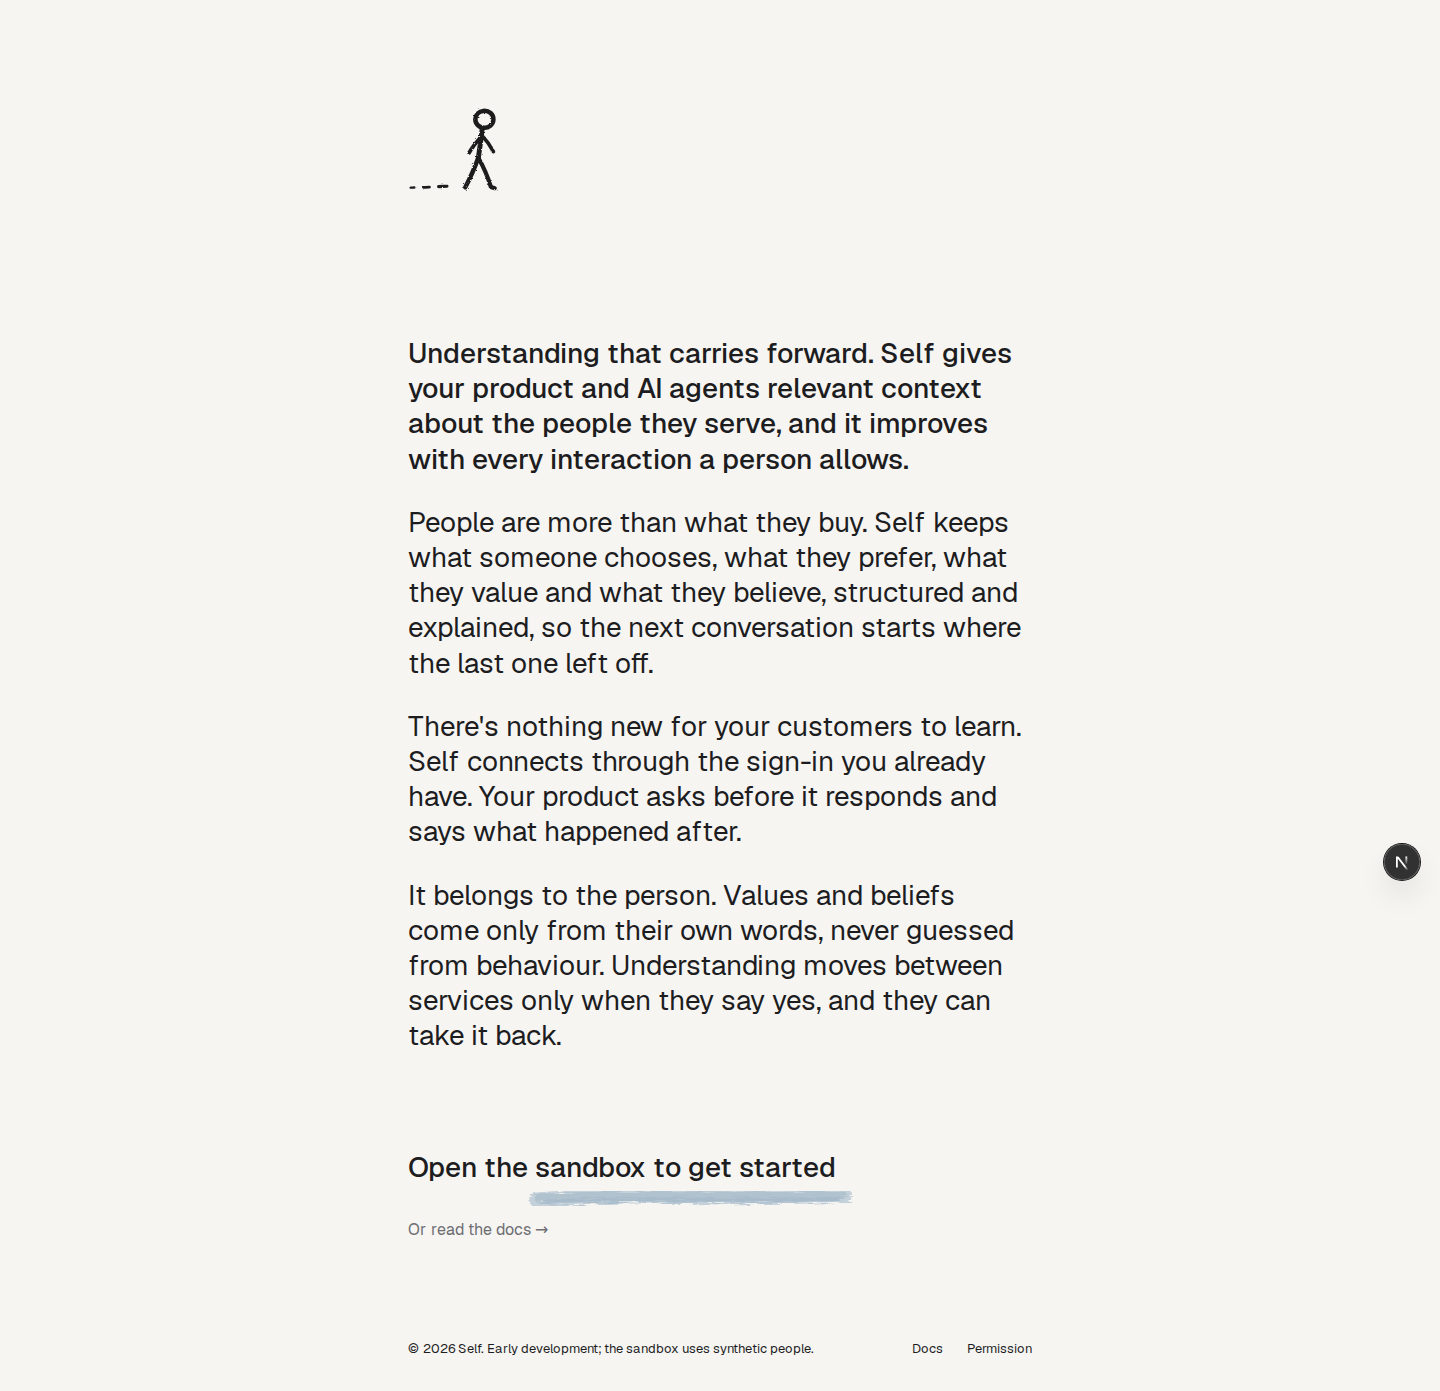
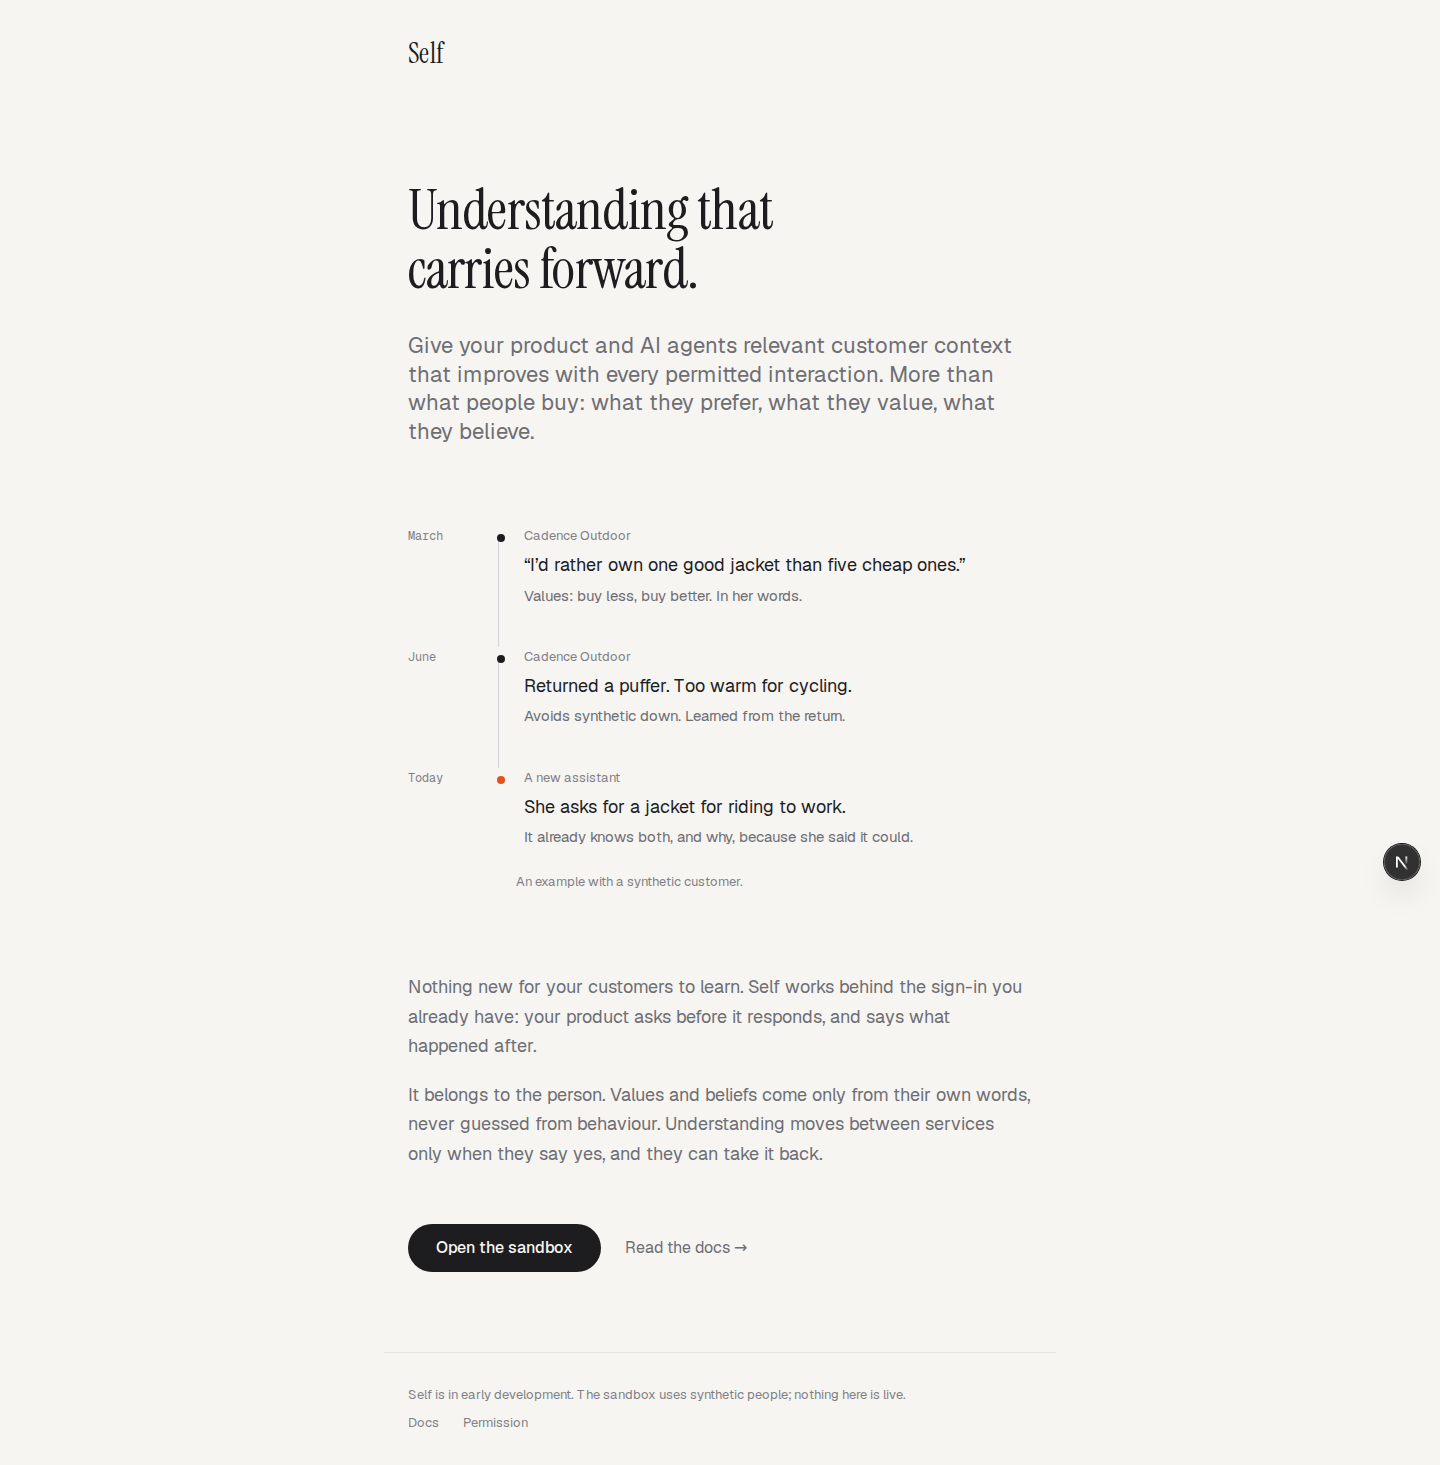
self site: home keeps the quiet one-page idea in Self's own look
Drops the hand-drawn figure and painted underline. The page is now the Self
wordmark, the serif statement, one example thread (a synthetic person's
understanding carrying forward), two short paragraphs and one black pill.
Removes Sketch.tsx and the brush token.

Claude-Session: https://claude.ai/code/session_01NboFFjXLtXmwBVeGGs59ea

diff --git a/src/app/page.tsx b/src/app/page.tsx
@@ -1,28 +1,66 @@
 import Link from "next/link";
-import { Brush, Walker } from "@/components/site/Sketch";
+import { LinkButton } from "@/components/ui/Button";
 
 /**
- * The Self front door. One drawing, three paragraphs that say plainly what
- * Self is, one thing to do next. No headline banner, no sections, no menu.
+ * The Self front door. One quiet page: what Self is, one example of
+ * understanding carrying forward, and one thing to do next.
  */
+
+const THREAD = [
+  {
+    when: "March",
+    where: "Cadence Outdoor",
+    said: "“I’d rather own one good jacket than five cheap ones.”",
+    kept: "Values: buy less, buy better. In her words.",
+  },
+  {
+    when: "June",
+    where: "Cadence Outdoor",
+    said: "Returned a puffer. Too warm for cycling.",
+    kept: "Avoids synthetic down. Learned from the return.",
+  },
+  {
+    when: "Today",
+    where: "A new assistant",
+    said: "She asks for a jacket for riding to work.",
+    kept: "It already knows both, and why, because she said it could.",
+  },
+];
+
 export default function Home() {
   return (
     <div className="flex min-h-dvh flex-col">
-      <main className="mx-auto flex w-full max-w-2xl flex-1 flex-col px-6 pt-14 pb-16 md:pt-24">
-        <Walker className="-ml-2 size-28 text-fg md:size-32" />
+      <header className="mx-auto w-full max-w-2xl px-6 pt-10">
+        <span className="font-display text-[28px] leading-none">Self</span>
+      </header>
 
-        <div className="mt-20 flex flex-col gap-7 text-xl text-fg md:mt-28 md:text-2xl">
-          <h1 className="font-medium">
-            Understanding that carries forward. Self gives your product and AI agents relevant context about the people they
-            serve, and it improves with every interaction a person allows.
-          </h1>
+      <main className="mx-auto flex w-full max-w-2xl flex-1 flex-col px-6 pt-20 pb-20 md:pt-28">
+        <h1 className="text-title text-balance">Understanding that carries forward.</h1>
+        <p className="mt-8 text-xl text-fg-muted">
+          Give your product and AI agents relevant customer context that improves with every permitted interaction. More than
+          what people buy: what they prefer, what they value, what they believe.
+        </p>
+
+        <ol className="mt-20 flex flex-col" aria-label="An example with a synthetic customer">
+          {THREAD.map((t, i) => (
+            <li key={t.when} className="relative grid grid-cols-[4.5rem_1fr] gap-x-5 pb-10 last:pb-0">
+              {i < THREAD.length - 1 && <span aria-hidden className="absolute top-3 bottom-0 left-[5.68rem] w-px bg-border-strong" />}
+              <span className="pt-0.5 font-mono text-xs text-fg-subtle">{t.when}</span>
+              <div className="relative flex flex-col gap-1.5 pl-6">
+                <span aria-hidden className={`absolute top-2 left-[-0.21rem] size-2 rounded-full ${i === THREAD.length - 1 ? "bg-accent" : "bg-fg"}`} />
+                <span className="text-sm text-fg-subtle">{t.where}</span>
+                <span className="text-lg">{t.said}</span>
+                <span className="text-fg-muted">{t.kept}</span>
+              </div>
+            </li>
+          ))}
+        </ol>
+        <p className="mt-6 pl-[6.75rem] text-sm text-fg-subtle">An example with a synthetic customer.</p>
+
+        <div className="mt-20 flex flex-col gap-5 text-lg leading-relaxed text-fg-muted">
           <p>
-            People are more than what they buy. Self keeps what someone chooses, what they prefer, what they value and what
-            they believe, structured and explained, so the next conversation starts where the last one left off.
-          </p>
-          <p>
-            There&apos;s nothing new for your customers to learn. Self connects through the sign-in you already have. Your
-            product asks before it responds and says what happened after.
+            Nothing new for your customers to learn. Self works behind the sign-in you already have: your product asks before
+            it responds, and says what happened after.
           </p>
           <p>
             It belongs to the person. Values and beliefs come only from their own words, never guessed from behaviour.
@@ -30,24 +68,23 @@ export default function Home() {
           </p>
         </div>
 
-        <div className="mt-20 flex flex-col gap-8 md:mt-24">
-          <Link href="/sandbox" className="group relative self-start text-xl font-medium text-fg md:text-2xl">
-            Open the sandbox to get started
-            <Brush className="absolute -bottom-7 left-[28%] h-7 w-[76%] text-brush transition-transform duration-(--duration-slow) group-hover:translate-x-1" />
-          </Link>
-          <Link href="/docs" className="self-start text-md text-fg-muted hover:text-fg">
-            Or read the docs →
+        <div className="mt-14 flex flex-wrap items-center gap-6">
+          <LinkButton href="/sandbox" variant="primary" size="lg">
+            Open the sandbox
+          </LinkButton>
+          <Link href="/docs" className="text-md text-fg-muted hover:text-fg">
+            Read the docs →
           </Link>
         </div>
       </main>
 
-      <footer className="mx-auto flex w-full max-w-2xl flex-wrap items-center justify-between gap-x-8 gap-y-2 px-6 py-8 text-sm text-fg">
-        <span>© 2026 Self. Early development; the sandbox uses synthetic people.</span>
+      <footer className="mx-auto flex w-full max-w-2xl flex-wrap justify-between gap-x-8 gap-y-2 border-t border-border px-6 py-8 text-sm text-fg-subtle">
+        <span>Self is in early development. The sandbox uses synthetic people; nothing here is live.</span>
         <span className="flex gap-6">
-          <Link href="/docs" className="hover:text-fg-muted">
+          <Link href="/docs" className="hover:text-fg">
             Docs
           </Link>
-          <Link href="/docs#sharing" className="hover:text-fg-muted">
+          <Link href="/docs#sharing" className="hover:text-fg">
             Permission
           </Link>
         </span>

diff --git a/src/design/tokens.css b/src/design/tokens.css
@@ -37,7 +37,6 @@
   --accent-fg: #ffffff;
   --accent-text: #c2440f;
   --accent-soft: rgb(228 82 27 / 0.1);
-  --brush: #9db4c6; /* Self home: the one painted underline. Decorative only. */
 
   /* The ring */
   --ring-track: #e8e7e3;
@@ -97,7 +96,6 @@
   --accent-fg: #1a1a1a;
   --accent-text: #ff8a5c;
   --accent-soft: rgb(240 97 43 / 0.15);
-  --brush: #5f7a8e;
 
   --ring-track: #2e2e2c;
   --ring-link: #edece8;
@@ -157,7 +155,6 @@
     --accent-fg: #1a1a1a;
     --accent-text: #ff8a5c;
     --accent-soft: rgb(240 97 43 / 0.15);
-    --brush: #5f7a8e;
 
     --ring-track: #2e2e2c;
     --ring-link: #edece8;
@@ -218,7 +215,6 @@
   --color-accent-fg: var(--accent-fg);
   --color-accent-text: var(--accent-text);
   --color-accent-soft: var(--accent-soft);
-  --color-brush: var(--brush);
   --color-danger: var(--danger);
   --color-danger-soft: var(--danger-soft);
   --color-success: var(--success);

diff --git a/CLAUDE.md b/CLAUDE.md
@@ -66,12 +66,12 @@ kept and still runs; its landing moved to `/founders`.
 - **Values and beliefs are stated only**: categories with `statedOnly`
   (`values`) are never learned from outcomes or inferred from behaviour; Self
   records only what the person says. Keep this for any belief-like category.
-- **Home (`src/app/page.tsx`, outside the `(site)` group, no menu)**: one
-  hand-drawn mark (`Walker`), plain paragraphs that say what Self is (the
-  first one medium weight), one call to action with a painted underline
-  (`Brush`, colour token `brush`), a one-line footer. Hand-drawn marks live in
-  `src/components/site/Sketch.tsx`. Keep it this sparse: no sections, no
-  cards, no headline banner. Docs and sandbox keep the `(site)` header.
+- **Home (`src/app/page.tsx`, outside the `(site)` group, no menu)**: the
+  Self wordmark, the serif statement, one supporting paragraph, one example
+  thread (one synthetic person's understanding carrying forward, labelled as
+  an example), two short paragraphs, one black pill to the sandbox, a
+  one-line footer. Keep it this sparse: no sections, no cards, no banners.
+  Docs and sandbox keep the `(site)` header.
 - **Voice**: people are more than what they buy (choices, preferences,
   values, beliefs). Bold about the vision, honest about the status (sandbox
   only), no buzzwords, no unbuilt verticals.
